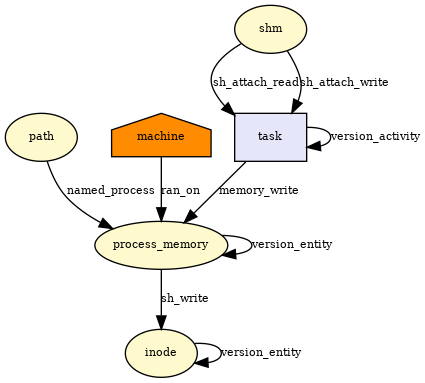
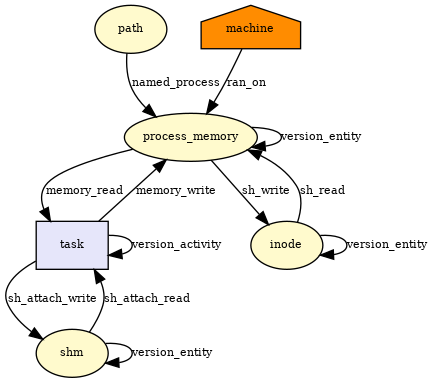
further tweak

Changed region(s): [[0.0, 0.0, 1.0, 1.0]]

diff --git a/include/uapi/linux/provenance_types.h b/include/uapi/linux/provenance_types.h
@@ -90,12 +90,13 @@
 #define RL_SHMDT		        	(RL_GENERATED | (0x0000000000000001ULL<<20))
 #define RL_SETUID             (RL_GENERATED | (0x0000000000000001ULL<<21))
 #define RL_SETGID             (RL_GENERATED | (0x0000000000000001ULL<<22))
-#define RL_SH_CREATE_READ     (RL_GENERATED | (0x0000000000000001ULL<<23))
-#define RL_SH_CREATE_WRITE    (RL_GENERATED | (0x0000000000000001ULL<<24))
-#define RL_FILE_LOCK          (RL_GENERATED | (0x0000000000000001ULL<<25))
-#define RL_MMAP_WRITE         (RL_GENERATED | (0x0000000000000001ULL<<26))
-#define RL_MUNMAP          		(RL_GENERATED | (0x0000000000000001ULL<<27))
-#define RL_SPLICE_OUT					(RL_GENERATED | (0x0000000000000001ULL<<28))
+#define RL_SH_ATTACH_WRITE    (RL_GENERATED | (0x0000000000000001ULL<<23))
+#define RL_SH_CREATE_READ     (RL_GENERATED | (0x0000000000000001ULL<<24))
+#define RL_SH_CREATE_WRITE    (RL_GENERATED | (0x0000000000000001ULL<<25))
+#define RL_FILE_LOCK          (RL_GENERATED | (0x0000000000000001ULL<<26))
+#define RL_MMAP_WRITE         (RL_GENERATED | (0x0000000000000001ULL<<27))
+#define RL_MUNMAP          		(RL_GENERATED | (0x0000000000000001ULL<<28))
+#define RL_SPLICE_OUT					(RL_GENERATED | (0x0000000000000001ULL<<29))
 /* no more than 51!!!! */
 
 /* USED SUBTYPES */
@@ -121,12 +122,11 @@
 #define RL_PERM_EXEC          (RL_USED      | (0x0000000000000001ULL<<19))
 #define RL_PERM_APPEND        (RL_USED      | (0x0000000000000001ULL<<20))
 #define RL_SH_ATTACH_READ     (RL_USED      | (0x0000000000000001ULL<<21))
-#define RL_SH_ATTACH_WRITE    (RL_USED 			| (0x0000000000000001ULL<<22))
-#define RL_GETGID             (RL_USED 			| (0x0000000000000001ULL<<23))
-#define RL_SPLICE_IN					(RL_USED 			| (0x0000000000000001ULL<<24))
-#define RL_MMAP_READ          (RL_USED			| (0x0000000000000001ULL<<25))
-#define RL_MMAP_EXEC          (RL_USED			| (0x0000000000000001ULL<<26))
-#define RL_LOAD_FILE   				(RL_USED			| (0x0000000000000001ULL<<27))
+#define RL_GETGID             (RL_USED 			| (0x0000000000000001ULL<<22))
+#define RL_SPLICE_IN					(RL_USED 			| (0x0000000000000001ULL<<23))
+#define RL_MMAP_READ          (RL_USED			| (0x0000000000000001ULL<<24))
+#define RL_MMAP_EXEC          (RL_USED			| (0x0000000000000001ULL<<25))
+#define RL_LOAD_FILE   				(RL_USED			| (0x0000000000000001ULL<<26))
 /* no more than 51!!!! */
 
 /* INFORMED SUBTYPES */

diff --git a/security/provenance/hooks.c b/security/provenance/hooks.c
@@ -1729,7 +1729,7 @@ static int provenance_shm_shmat(struct kern_ipc_perm *shp, char __user *shmaddr,
 		rc = uses(RL_SH_ATTACH_READ, sprov, tprov, cprov, NULL, shmflg);
 		if (rc < 0)
 			goto out;
-		rc = uses(RL_SH_ATTACH_WRITE, sprov, tprov, cprov, NULL, shmflg);
+		rc = generates(RL_SH_ATTACH_WRITE, cprov, tprov, sprov, NULL, shmflg);
 	}
 out:
 	spin_unlock(prov_lock(sprov));

diff --git a/include/uapi/linux/provenance.h b/include/uapi/linux/provenance.h
@@ -30,7 +30,7 @@
   "."xstr(CAMFLOW_VERSION_MINOR)\
   "."xstr(CAMFLOW_VERSION_PATCH)\
 
-#define CAMFLOW_COMMIT "6a8ab6c69128ac0d79108d458b25bb413878aace"
+#define CAMFLOW_COMMIT "dda0492140b42a71d57cd34fb938024a8c43cb98"
 
 #define PROVENANCE_HASH "sha256"
 
